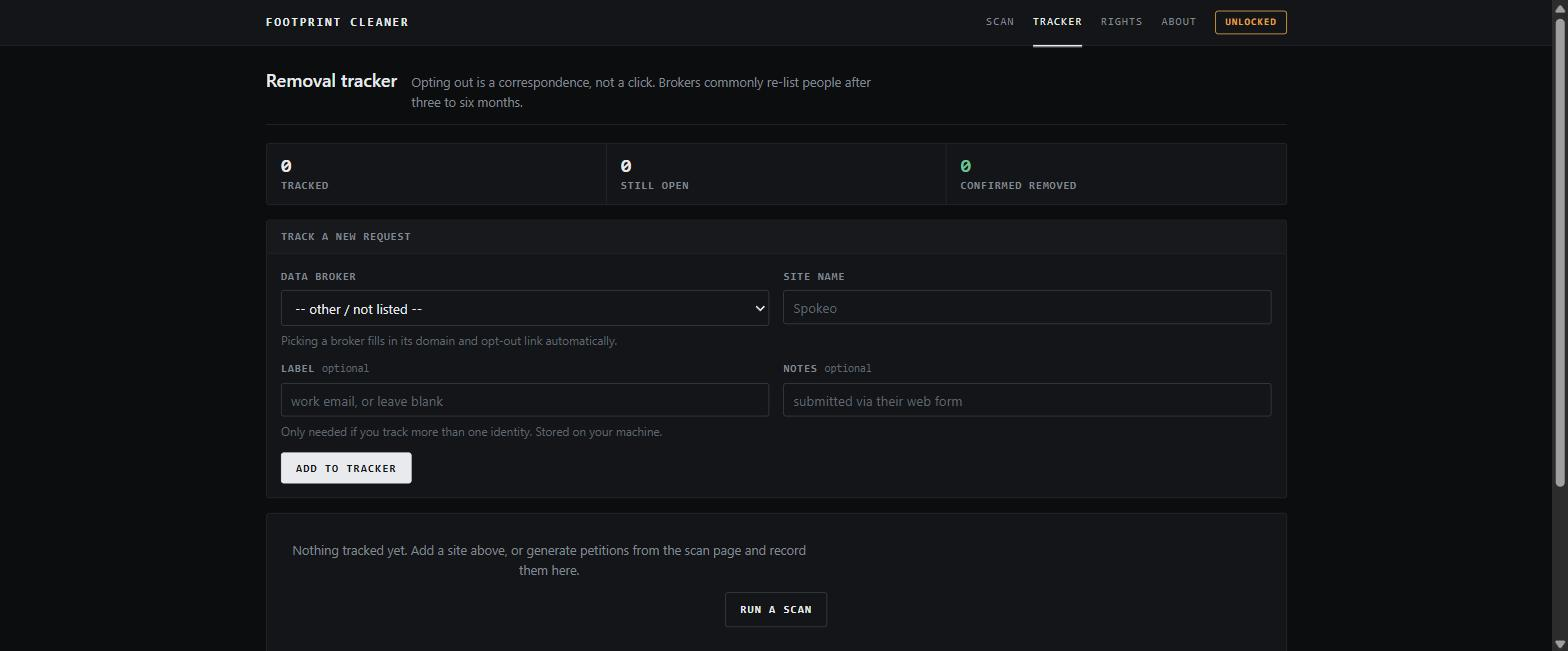
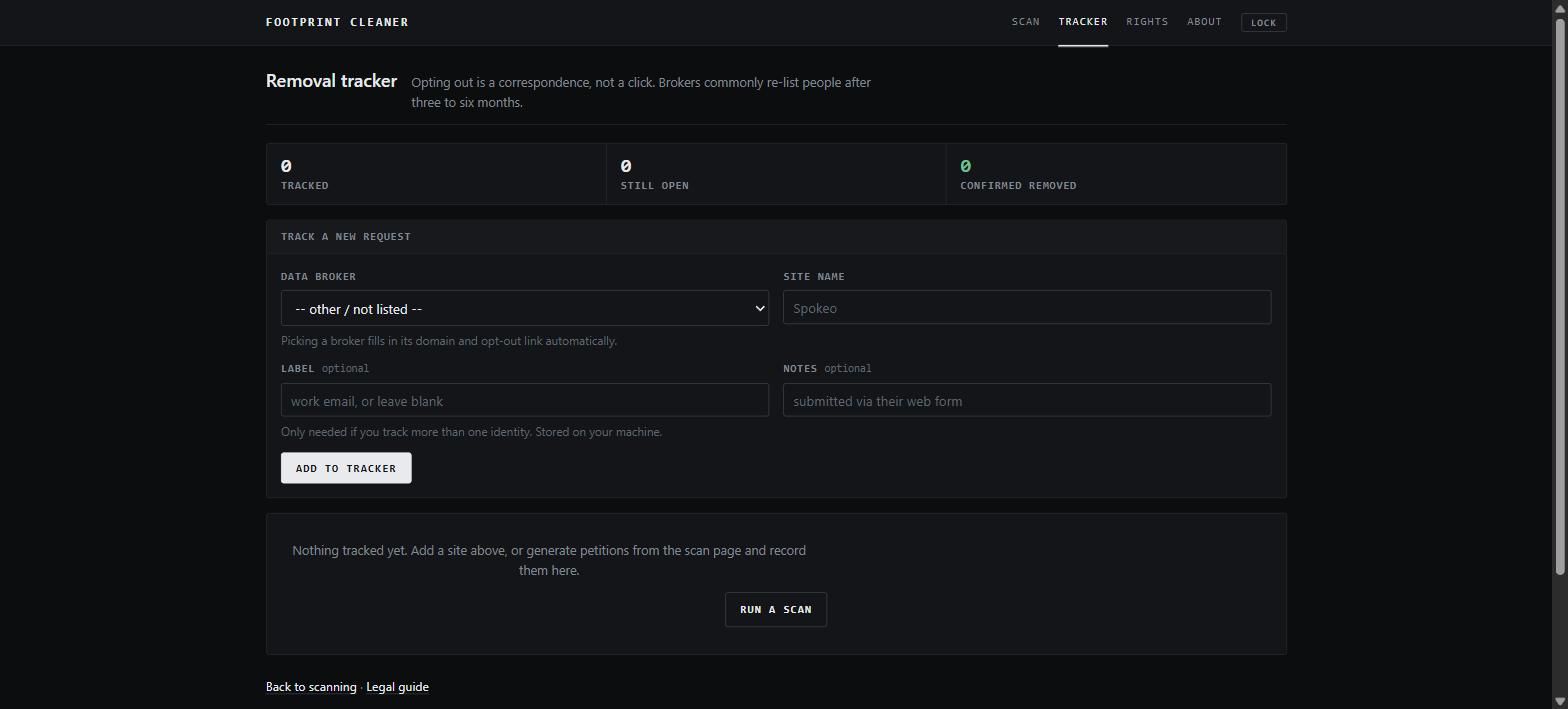
refactor: resolve static-analysis warnings and add the lock screenshot
Eight inspection warnings, all fixed at the cause rather than suppressed.

The two that pointed at real weak typing:

* search_plan.DEPTHS was a dict of `object`, so every read went through a cast
  the checker could not verify: `int(settings["variants"])` needed a
  type: ignore, and `str(DEPTHS[key]["label"])` warned that stringifying an
  object may not be useful. Now a DepthPreset dataclass, which removes four
  type: ignore comments and makes the caps read as the numbers they are.
* identity.from_form assigned the result of getattr(form, "getlist") to a
  Sequence[str] name. getattr is untyped, so nothing verified that. It now
  builds a concrete list[str].

The rest:

* app._safe_next was unannotated, so its isinstance guard did not narrow
  `request.args.get("next")` for the checker. Annotated `object -> str`.
* `patterns` was both the inner helper's parameter and a local of factors();
  the local is now email_patterns.
* scanner's sort lambda used `item`, shadowing the merge loop variable.
* test_app and test_deep_search declared parameters they never read. Both
  arrive as keywords, so **kwargs absorbs them without a dead name.
* test_result_store passed dict[int, int] to a Mapping[str, str] parameter to
  exercise the defensive coercion. Now an explicit cast, with a comment, so it
  reads as deliberate rather than as a mistake.

Also removes six prose dashes the earlier sweep missed because they sat at a
[…]

diff --git a/utils/search_plan.py b/utils/search_plan.py
@@ -66,34 +66,53 @@ _RECORD_PASSES = (
     ("news", "News mentions", "news", "news_media"),
 )
 
-# Depth presets. The names are what the UI shows; the values cap how much of the
-# plan is built. More passes find more, and also make throttling more likely --
-# an honest trade the user gets to make rather than one made for them.
-DEPTHS: dict[str, dict[str, object]] = {
-    "quick": {
-        "label": "Quick",
-        "description": "Two broad searches. Fastest, least likely to be throttled.",
-        "variants": 1,
-        "social": 0,
-        "extended": 0,
-        "records": 0,
-    },
-    "standard": {
-        "label": "Standard",
-        "description": "Broad searches plus the major social and professional sites.",
-        "variants": 2,
-        "social": 4,
-        "extended": 0,
-        "records": 1,
-    },
-    "deep": {
-        "label": "Deep",
-        "description": "Every name spelling, ten platforms and public-record sweeps.",
-        "variants": 3,
-        "social": 4,
-        "extended": 6,
-        "records": 3,
-    },
+
+@dataclass(frozen=True)
+class DepthPreset:
+    """How much of the plan one depth tier builds.
+
+    A dataclass rather than a dict of ``object``: the caps are read as numbers
+    and the labels as strings, and a plain mapping forced every read through a
+    cast that the type checker could not verify and a reader could not trust.
+    """
+
+    label: str
+    description: str
+    variants: int
+    social: int
+    extended: int
+    records: int
+
+
+# Depth presets. The labels are what the UI shows; the caps decide how much of
+# the plan is built. More passes find more, and also make throttling more
+# likely, which is an honest trade the user gets to make rather than one made
+# for them.
+DEPTHS: dict[str, DepthPreset] = {
+    "quick": DepthPreset(
+        label="Quick",
+        description="Two broad searches. Fastest, least likely to be throttled.",
+        variants=1,
+        social=0,
+        extended=0,
+        records=0,
+    ),
+    "standard": DepthPreset(
+        label="Standard",
+        description="Broad searches plus the major social and professional sites.",
+        variants=2,
+        social=4,
+        extended=0,
+        records=1,
+    ),
+    "deep": DepthPreset(
+        label="Deep",
+        description="Every name spelling, ten platforms and public-record sweeps.",
+        variants=3,
+        social=4,
+        extended=6,
+        records=3,
+    ),
 }
 
 DEFAULT_DEPTH = "standard"
@@ -126,8 +145,8 @@ class SearchPass:
 def _quoted(name: str) -> str:
     """Wrap a name in quotes so the backend treats it as one phrase.
 
-    Unquoted, ``Jane Doe`` matches pages containing "Jane" and "Doe" anywhere --
-    a different Jane and a different Doe on the same page score as a hit.
+    Unquoted, ``Jane Doe`` matches pages containing "Jane" and "Doe" anywhere,
+    so a different Jane and a different Doe on the same page score as a hit.
     Embedded quotes are stripped rather than escaped: the operator has no escape
     syntax, and a stray quote silently truncates the phrase.
     """
@@ -146,8 +165,8 @@ def depth_choices() -> tuple[dict[str, str], ...]:
     return tuple(
         {
             "id": key,
-            "label": str(DEPTHS[key]["label"]),
-            "description": str(DEPTHS[key]["description"]),
+            "label": DEPTHS[key].label,
+            "description": DEPTHS[key].description,
         }
         for key in ("quick", "standard", "deep")
     )
@@ -167,12 +186,8 @@ def build_plan(profile: IdentityProfile, depth: str = DEFAULT_DEPTH) -> tuple[Se
         return ()
 
     settings = DEPTHS[resolve_depth(depth)]
-    variant_limit = int(settings["variants"])  # type: ignore[call-overload]
-    social_limit = int(settings["social"])  # type: ignore[call-overload]
-    extended_limit = int(settings["extended"])  # type: ignore[call-overload]
-    record_limit = int(settings["records"])  # type: ignore[call-overload]
 
-    variants = profile.name_variants()[:variant_limit] or (profile.full_name,)
+    variants = profile.name_variants()[: settings.variants] or (profile.full_name,)
     primary = _quoted(variants[0])
     # Site-scoped and record passes search the given+family spelling instead:
     # a scoped search is an exact match against one site's own index, so an
@@ -217,7 +232,7 @@ def build_plan(profile: IdentityProfile, depth: str = DEFAULT_DEPTH) -> tuple[Se
 
     # 4. Site-scoped platform checks: the part a general search cannot do.
     scoped: Iterable[tuple[str, str, str]] = (
-        list(_SOCIAL_SITES[:social_limit]) + list(_EXTENDED_SITES[:extended_limit])
+        list(_SOCIAL_SITES[: settings.social]) + list(_EXTENDED_SITES[: settings.extended])
     )
     for domain, label, category in scoped:
         passes.append(
@@ -232,7 +247,7 @@ def build_plan(profile: IdentityProfile, depth: str = DEFAULT_DEPTH) -> tuple[Se
         )
 
     # 5. Record-type sweeps, last: the widest net and the noisiest.
-    for key, label, terms, category in _RECORD_PASSES[:record_limit]:
+    for key, label, terms, category in _RECORD_PASSES[: settings.records]:
         passes.append(
             SearchPass(
                 key=f"records_{key}",

diff --git a/utils/identity.py b/utils/identity.py
@@ -12,7 +12,7 @@ the person being searched for.
   worth searching for (``"Jane Doe"``, ``"Doe, Jane"``, ``"Jane M Doe"``, ...).
   Broker listings and directories are inconsistent about name order and middle
   names, so one spelling misses listings that plainly exist.
-* :meth:`IdentityProfile.factors` produces matchable :class:`Factor` objects --
+* :meth:`IdentityProfile.factors` produces matchable :class:`Factor` objects:
   employer, city, school, phone, birth year, relatives: that
   :mod:`analysis` scores each result against.
 
@@ -33,7 +33,7 @@ import re
 import unicodedata
 from dataclasses import dataclass, field
 from datetime import date
-from typing import Iterable, Mapping, Sequence
+from typing import Iterable, Mapping
 
 from utils.validation import MAX_NAME_LENGTH, MAX_QUERY_LENGTH, clamp_text
 
@@ -270,15 +270,17 @@ class IdentityProfile:
             return clamp_text(form.get(name, ""), limit)
 
         def many(name: str) -> tuple[str, ...]:
+            # getattr on a Mapping yields an untyped value, so the result is
+            # coerced to a concrete list[str] here rather than being assigned
+            # to a Sequence[str] name the checker cannot verify.
             getlist = getattr(form, "getlist", None)
-            raw: Sequence[str]
             if callable(getlist):
-                raw = getlist(name)
+                raw: list[str] = [str(value) for value in getlist(name)]
             else:
-                value = form.get(name, "")
+                text = form.get(name, "")
                 # Fall back to comma-separated entry for plain dict callers and
                 # for a single text input holding several names.
-                raw = value.split(",") if value else []
+                raw = text.split(",") if text else []
             return _clean_list(raw, MAX_NAME_LENGTH)
 
         return cls(
@@ -312,7 +314,7 @@ class IdentityProfile:
         """Given plus family name, with any middle name and suffix dropped.
 
         This is the spelling to scope a site search to. Someone who types
-        "Jane Marie Doe" is not listed that way on LinkedIn or Instagram --
+        "Jane Marie Doe" is not listed that way on LinkedIn or Instagram,
         those profiles read "Jane Doe": and ``site:linkedin.com "Jane Marie
         Doe"`` therefore returns nothing while the profile sits there in plain
         sight. Broad searches still use the full name as typed; only the
@@ -394,10 +396,10 @@ class IdentityProfile:
             # The local part alone is worth matching: sites frequently redact
             # the domain ("jane.doe@...") or list the handle without it.
             local = self.email.partition("@")[0]
-            patterns = [_word_pattern(self.email)]
+            email_patterns = [_word_pattern(self.email)]
             if len(local) >= 4:
-                patterns.append(_word_pattern(local))
-            add("email", "Email address", self.email, 5, patterns)
+                email_patterns.append(_word_pattern(local))
+            add("email", "Email address", self.email, 5, email_patterns)
 
         if self.username and len(self.username) >= 3:
             add("username", "Username", self.username, 4, (_word_pattern(self.username),))

diff --git a/tests/test_result_store.py b/tests/test_result_store.py
@@ -6,6 +6,8 @@ an expired or unknown token must degrade to "run the search again", never to a
 partial map or an exception.
 """
 
+from typing import Mapping, cast
+
 from utils.result_store import ResultStore
 
 
@@ -106,6 +108,9 @@ def test_returned_map_is_a_copy():
 
 
 def test_keys_and_values_are_coerced_to_strings():
+    # put() declares Mapping[str, str]; this deliberately breaks that contract
+    # to exercise the defensive coercion, hence the cast rather than a plain
+    # wrong-typed literal that would read as a mistake.
     store = ResultStore()
-    token = store.put({1: 2})
+    token = store.put(cast(Mapping[str, str], {1: 2}))
     assert store.get(token) == {"1": "2"}

diff --git a/utils/username_check.py b/utils/username_check.py
@@ -20,7 +20,7 @@ in a *privacy* tool is worse than no answer at all. Three things make this hard:
   every username; the real answer only appears once JavaScript has run.
 
 Results are therefore **tri-state**: ``found`` / ``not_found`` / ``unknown``
--- and anything ambiguous (403, 429, 5xx, a redirect, a timeout, a connection
+and anything ambiguous (403, 429, 5xx, a redirect, a timeout, a connection
 error, or a 200 we cannot positively confirm) is ``unknown`` with a short
 machine-readable ``reason``, **never** ``not_found``. A platform whose response
 cannot be interpreted honestly is marked ``SIGNAL_UNRELIABLE`` in

diff --git a/tests/test_app.py b/tests/test_app.py
@@ -14,7 +14,7 @@ def _patch_scan(monkeypatch, results=(), raises=None, outcomes=None):
     Replaces `scanner.deep_search` rather than a name imported into `app`, so
     the fake sits at the real seam: `app` calls it through the module.
     """
-    def fake(_profile, depth=None, **_kwargs):
+    def fake(_profile, **_kwargs):
         if raises is not None:
             raise raises
         report = scanner.DeepSearchReport(results=[dict(r) for r in results])

diff --git a/scanner.py b/scanner.py
@@ -654,7 +654,7 @@ def deep_search(
 
     # Merge, preserving plan order so the most significant passes' results lead.
     order = {p.key: index for index, p in enumerate(plan)}
-    collected.sort(key=lambda item: order.get(item["pass_key"], len(order)))
+    collected.sort(key=lambda hit: order.get(hit["pass_key"], len(order)))
 
     merged: dict[str, dict] = {}
     for item in collected:

diff --git a/utils/email_signals.py b/utils/email_signals.py
@@ -200,7 +200,7 @@ def _request(
 
     Args:
         client: the HTTP client to use.
-        url: absolute endpoint URL. Must never contain the email address --
+        url: absolute endpoint URL. Must never contain the email address,
             see the logging note below.
         label: short static probe name used in log messages.
         params: optional query parameters.

diff --git a/app.py b/app.py
@@ -220,7 +220,7 @@ def login():
     return render_template("login.html", error=error, active_page="login")
 
 
-def _safe_next(target):
+def _safe_next(target: object) -> str:
     """Return a safe same-site redirect target, defaulting to the home page.
 
     Only a path beginning with a single ``/`` is accepted. ``//evil.example``

diff --git a/tests/test_deep_search.py b/tests/test_deep_search.py
@@ -29,7 +29,7 @@ class _ScriptedDDGS:
     def __exit__(self, *_exc_info):
         return False
 
-    def text(self, query="", max_results=0, **_kwargs):
+    def text(self, query="", **_kwargs):
         self._calls.append(query)
         for needle, outcome in self._rules.items():
             if needle in query:

diff --git a/README.md b/README.md
@@ -35,6 +35,12 @@ plus a per-broker check to confirm whether one lists you:
 
 ![Removal tracker](docs/screenshots/tracker.jpg)
 
+**Passcode lock** (optional). Set `DFC_PASSCODE` and every page requires an
+unlock first. Without it the header says **Unlocked**, so you are never left
+assuming a protection that is not there:
+
+![Passcode lock](docs/screenshots/lock.jpg)
+
 ## Features
 
 - **Deep multi-pass search.** A scan is a *plan* of narrow searches, not one broad
